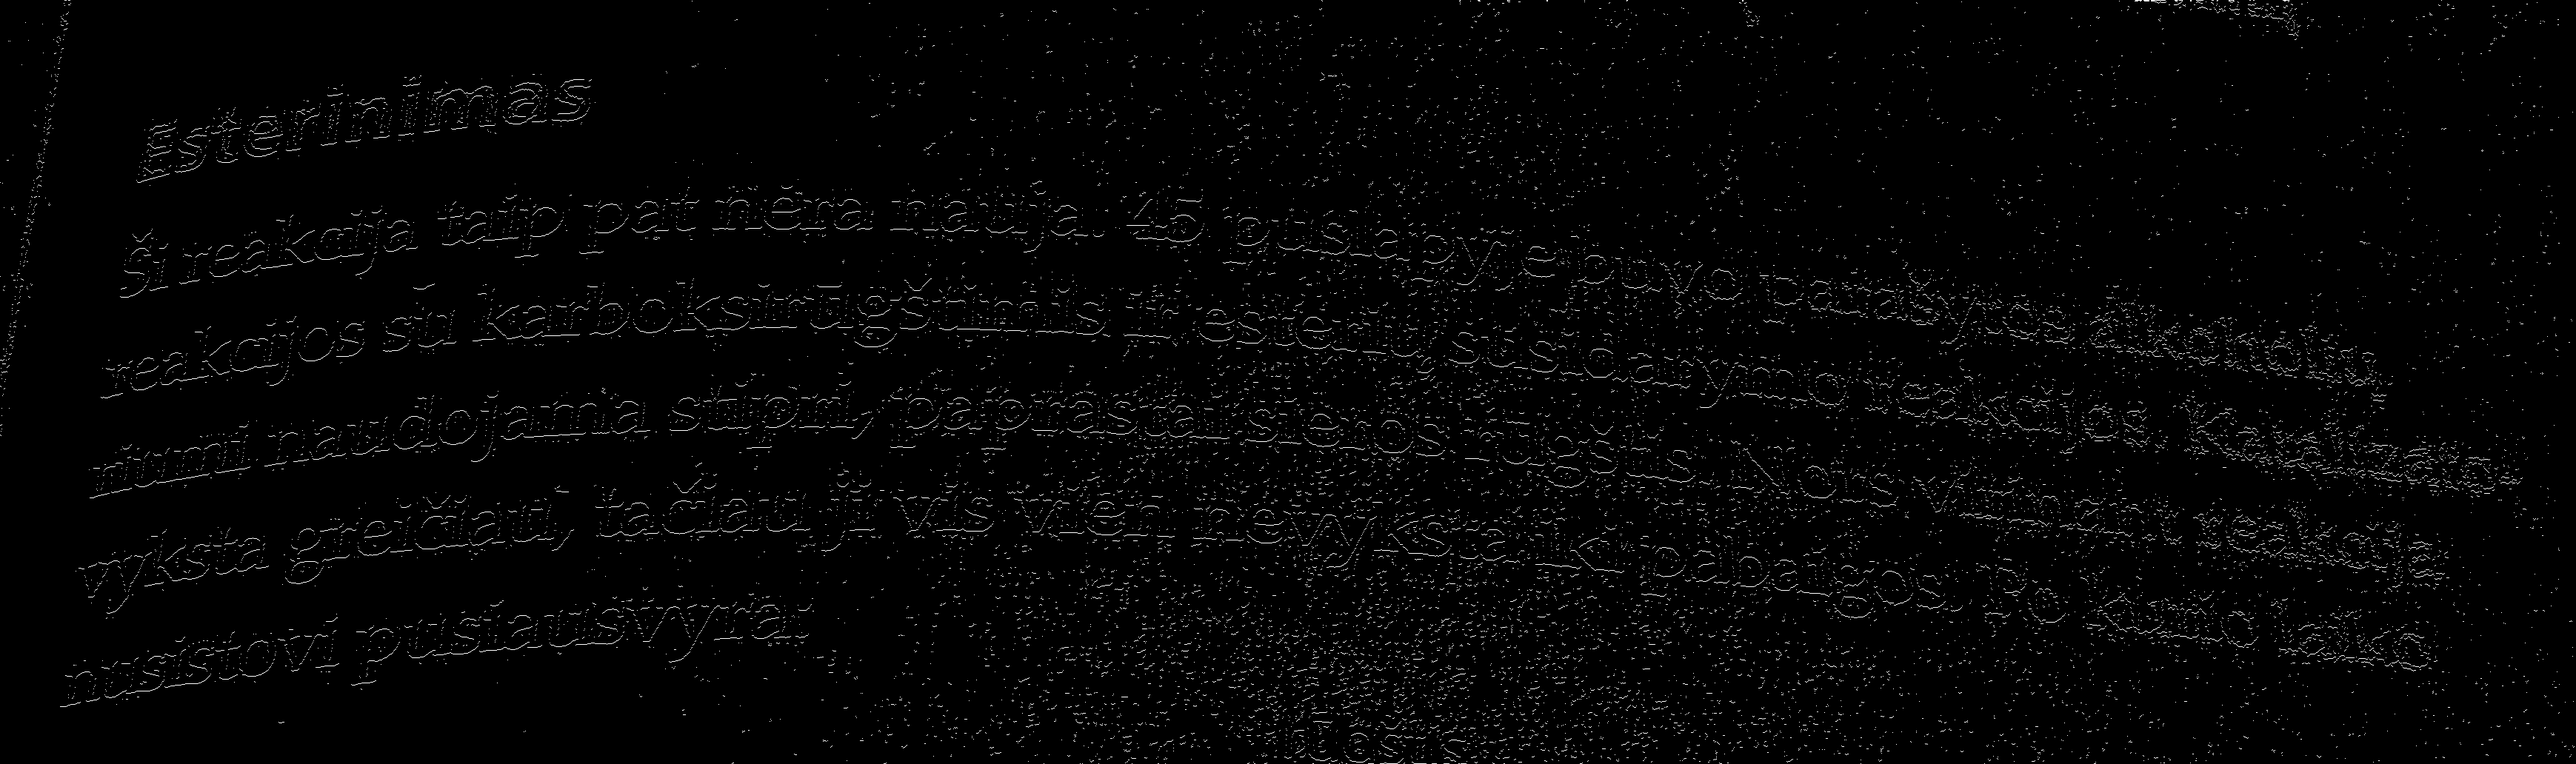
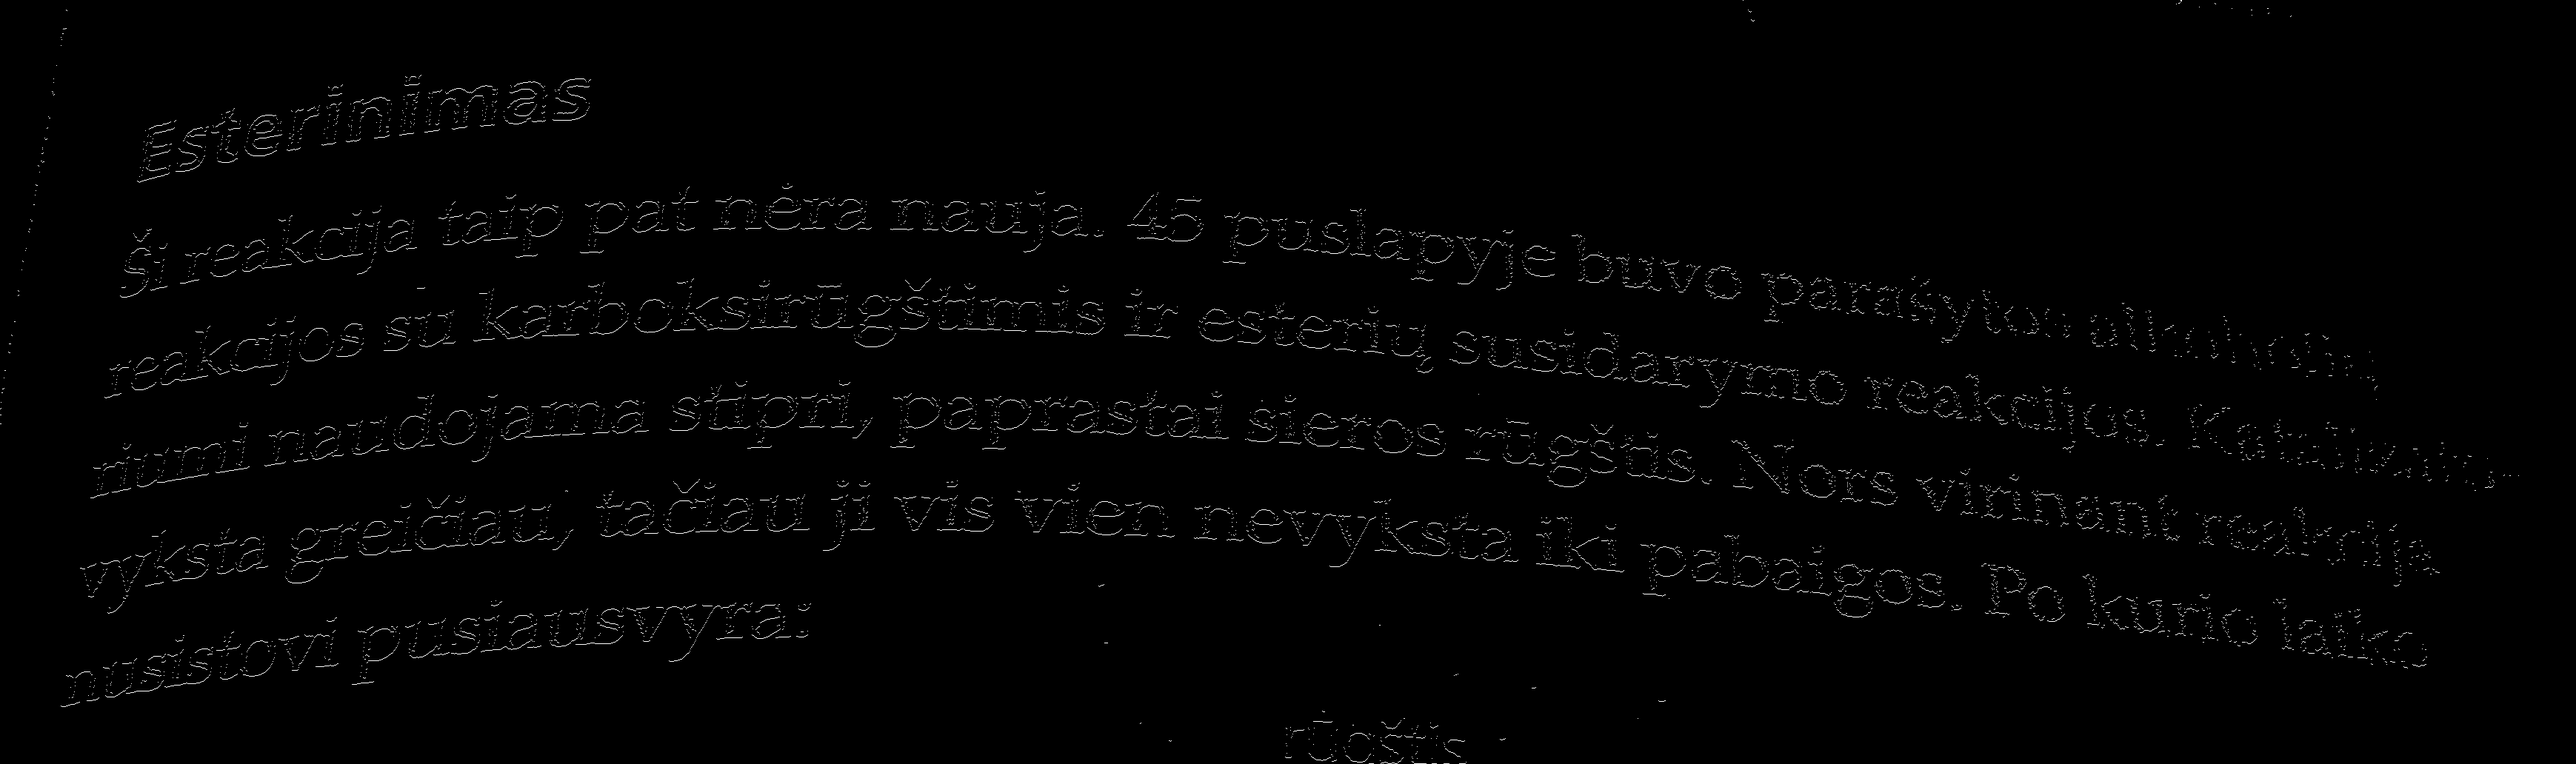
a few more filters for pixels.py

diff --git a/pixels.py b/pixels.py
@@ -13,7 +13,8 @@ img = cv2.erode(img, kernel, iterations=1)
 img = cv2.GaussianBlur(img, (5, 5), 0)
 #img = cv2.threshold(img, 64, 256, cv2.THRESH_BINARY + cv2.THRESH_OTSU)[1]
 
-img = cv2.adaptiveThreshold(img,255,cv2.ADAPTIVE_THRESH_GAUSSIAN_C,cv2.THRESH_BINARY,11,2) #imgf contains Binary image
+img = cv2.adaptiveThreshold(img,255,cv2.ADAPTIVE_THRESH_GAUSSIAN_C,cv2.THRESH_BINARY,11,7) #imgf contains Binary image
+#img = cv2.fastNlMeansDenoising(img, None, 10, 10, 7) 
 #cv2.imshow("img", img)
 #cv2.waitKey()
 #print(img.shape)
